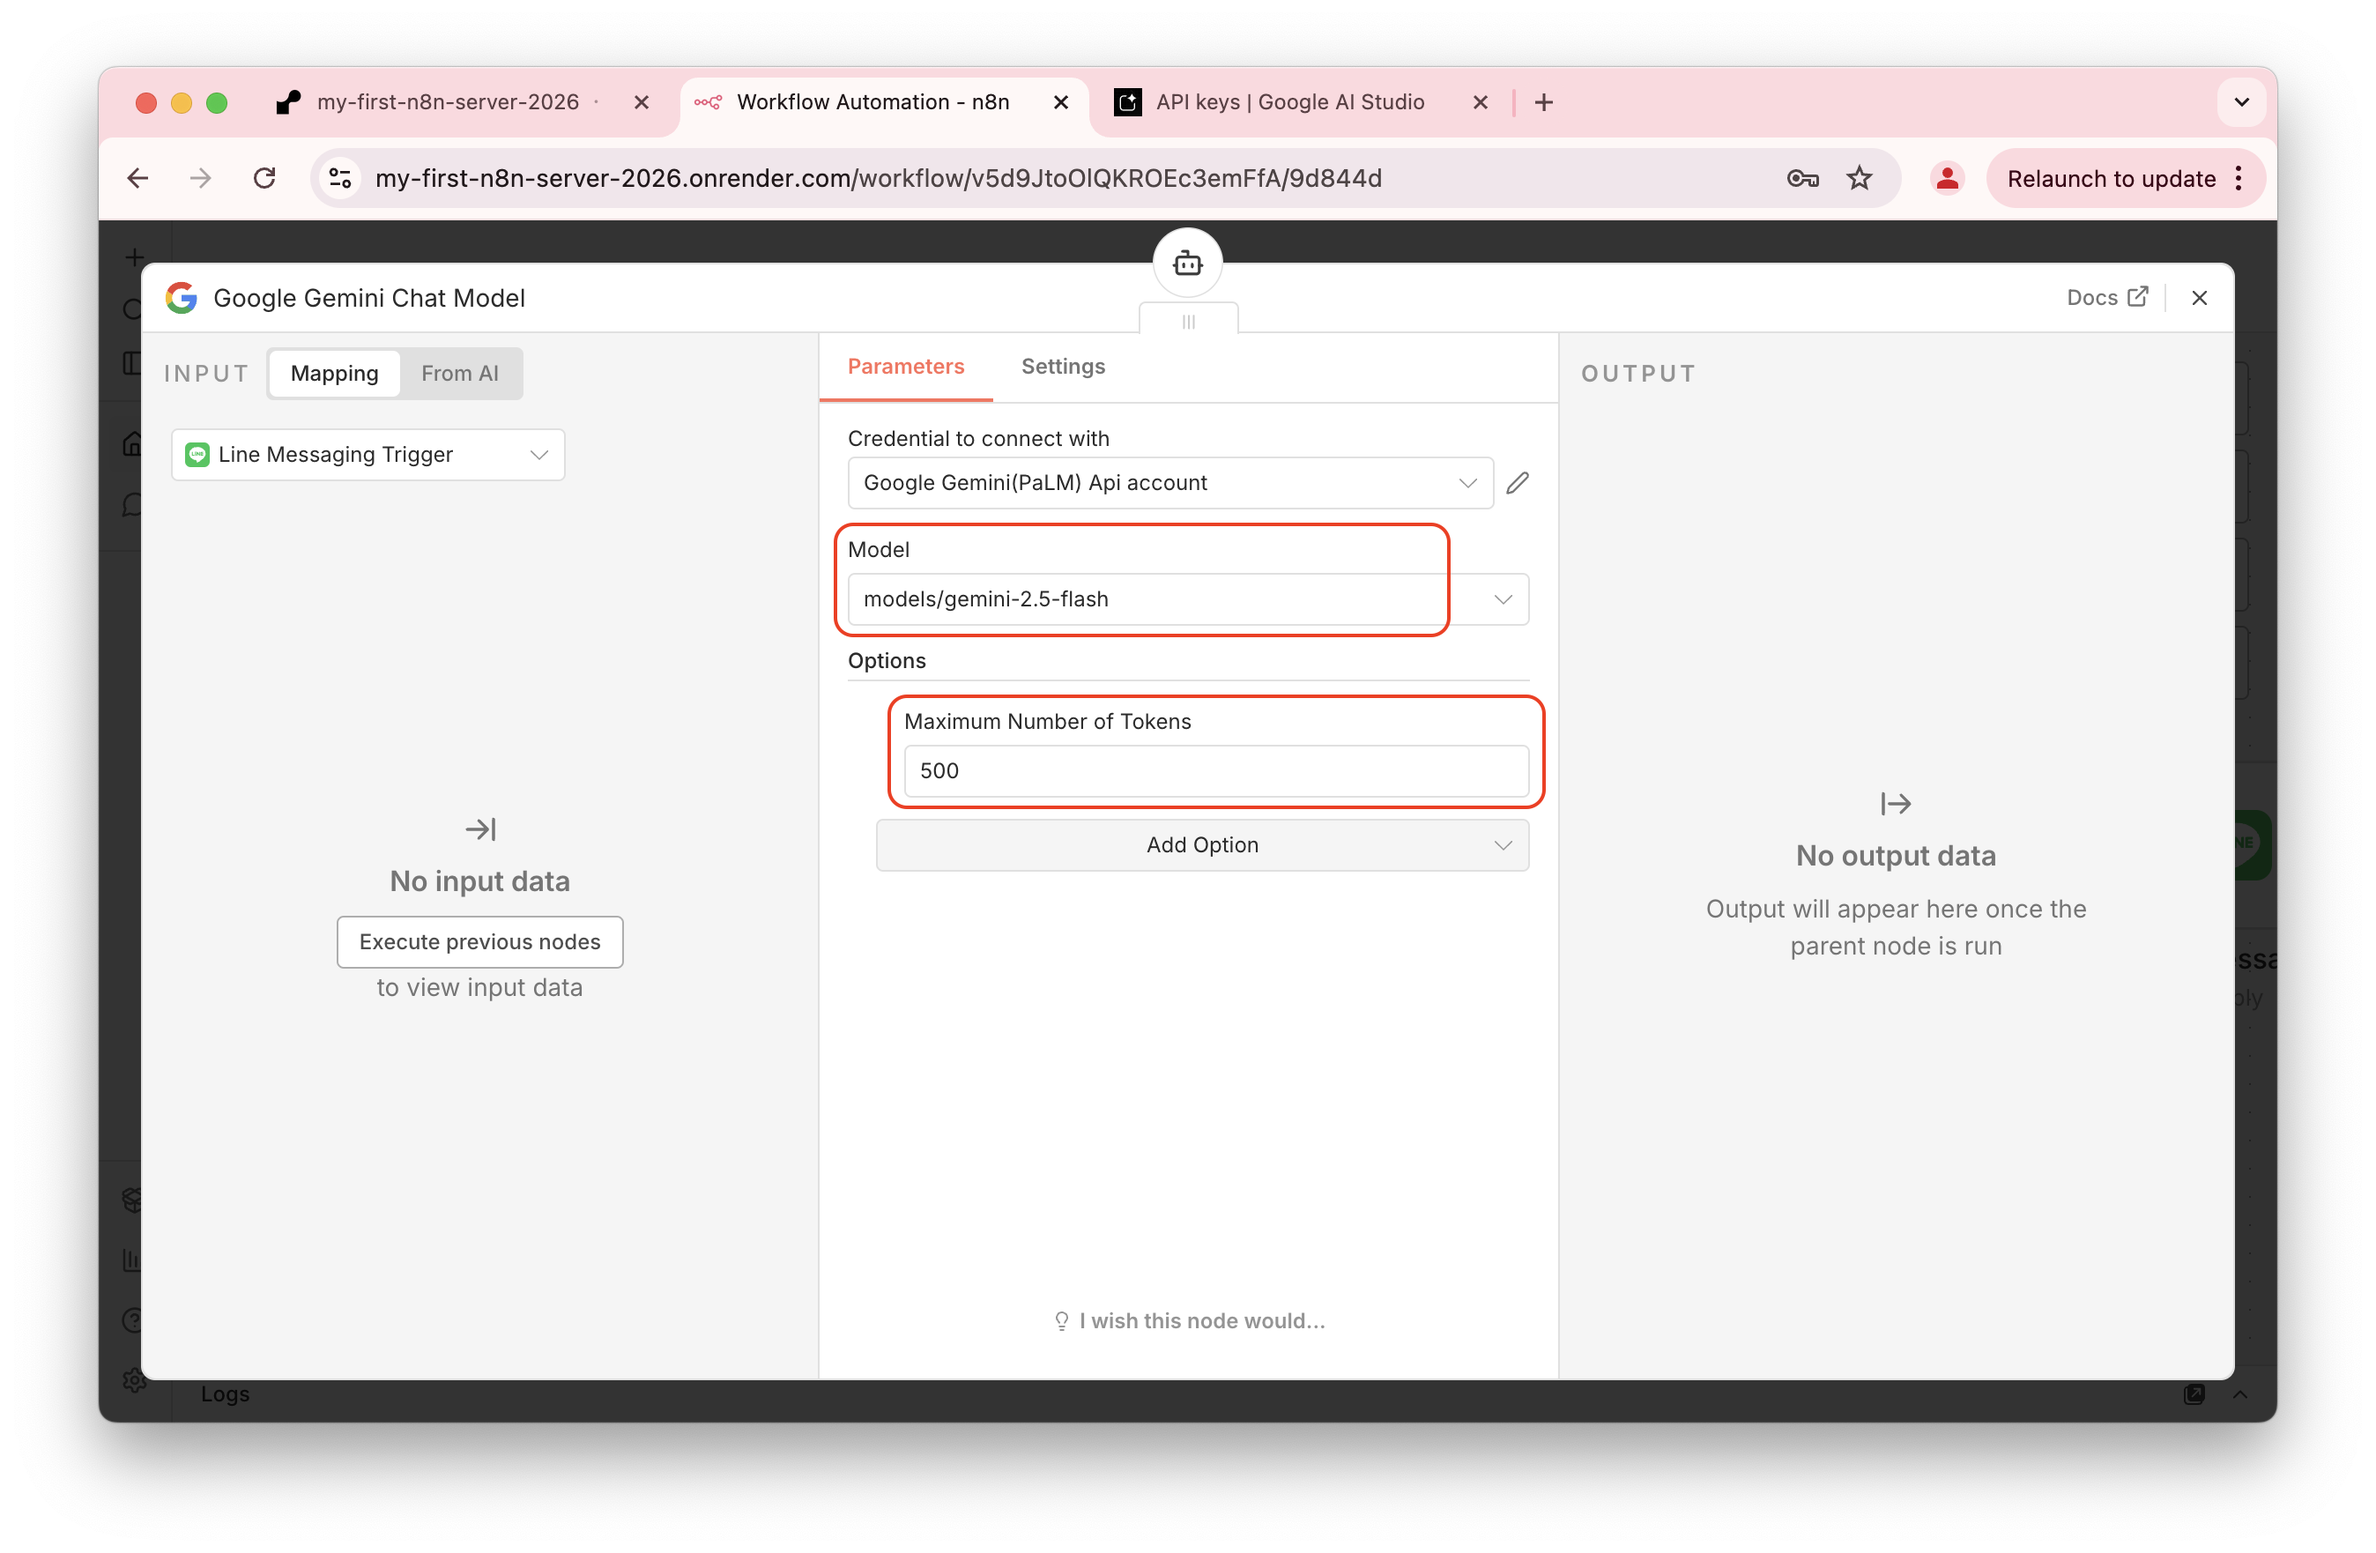
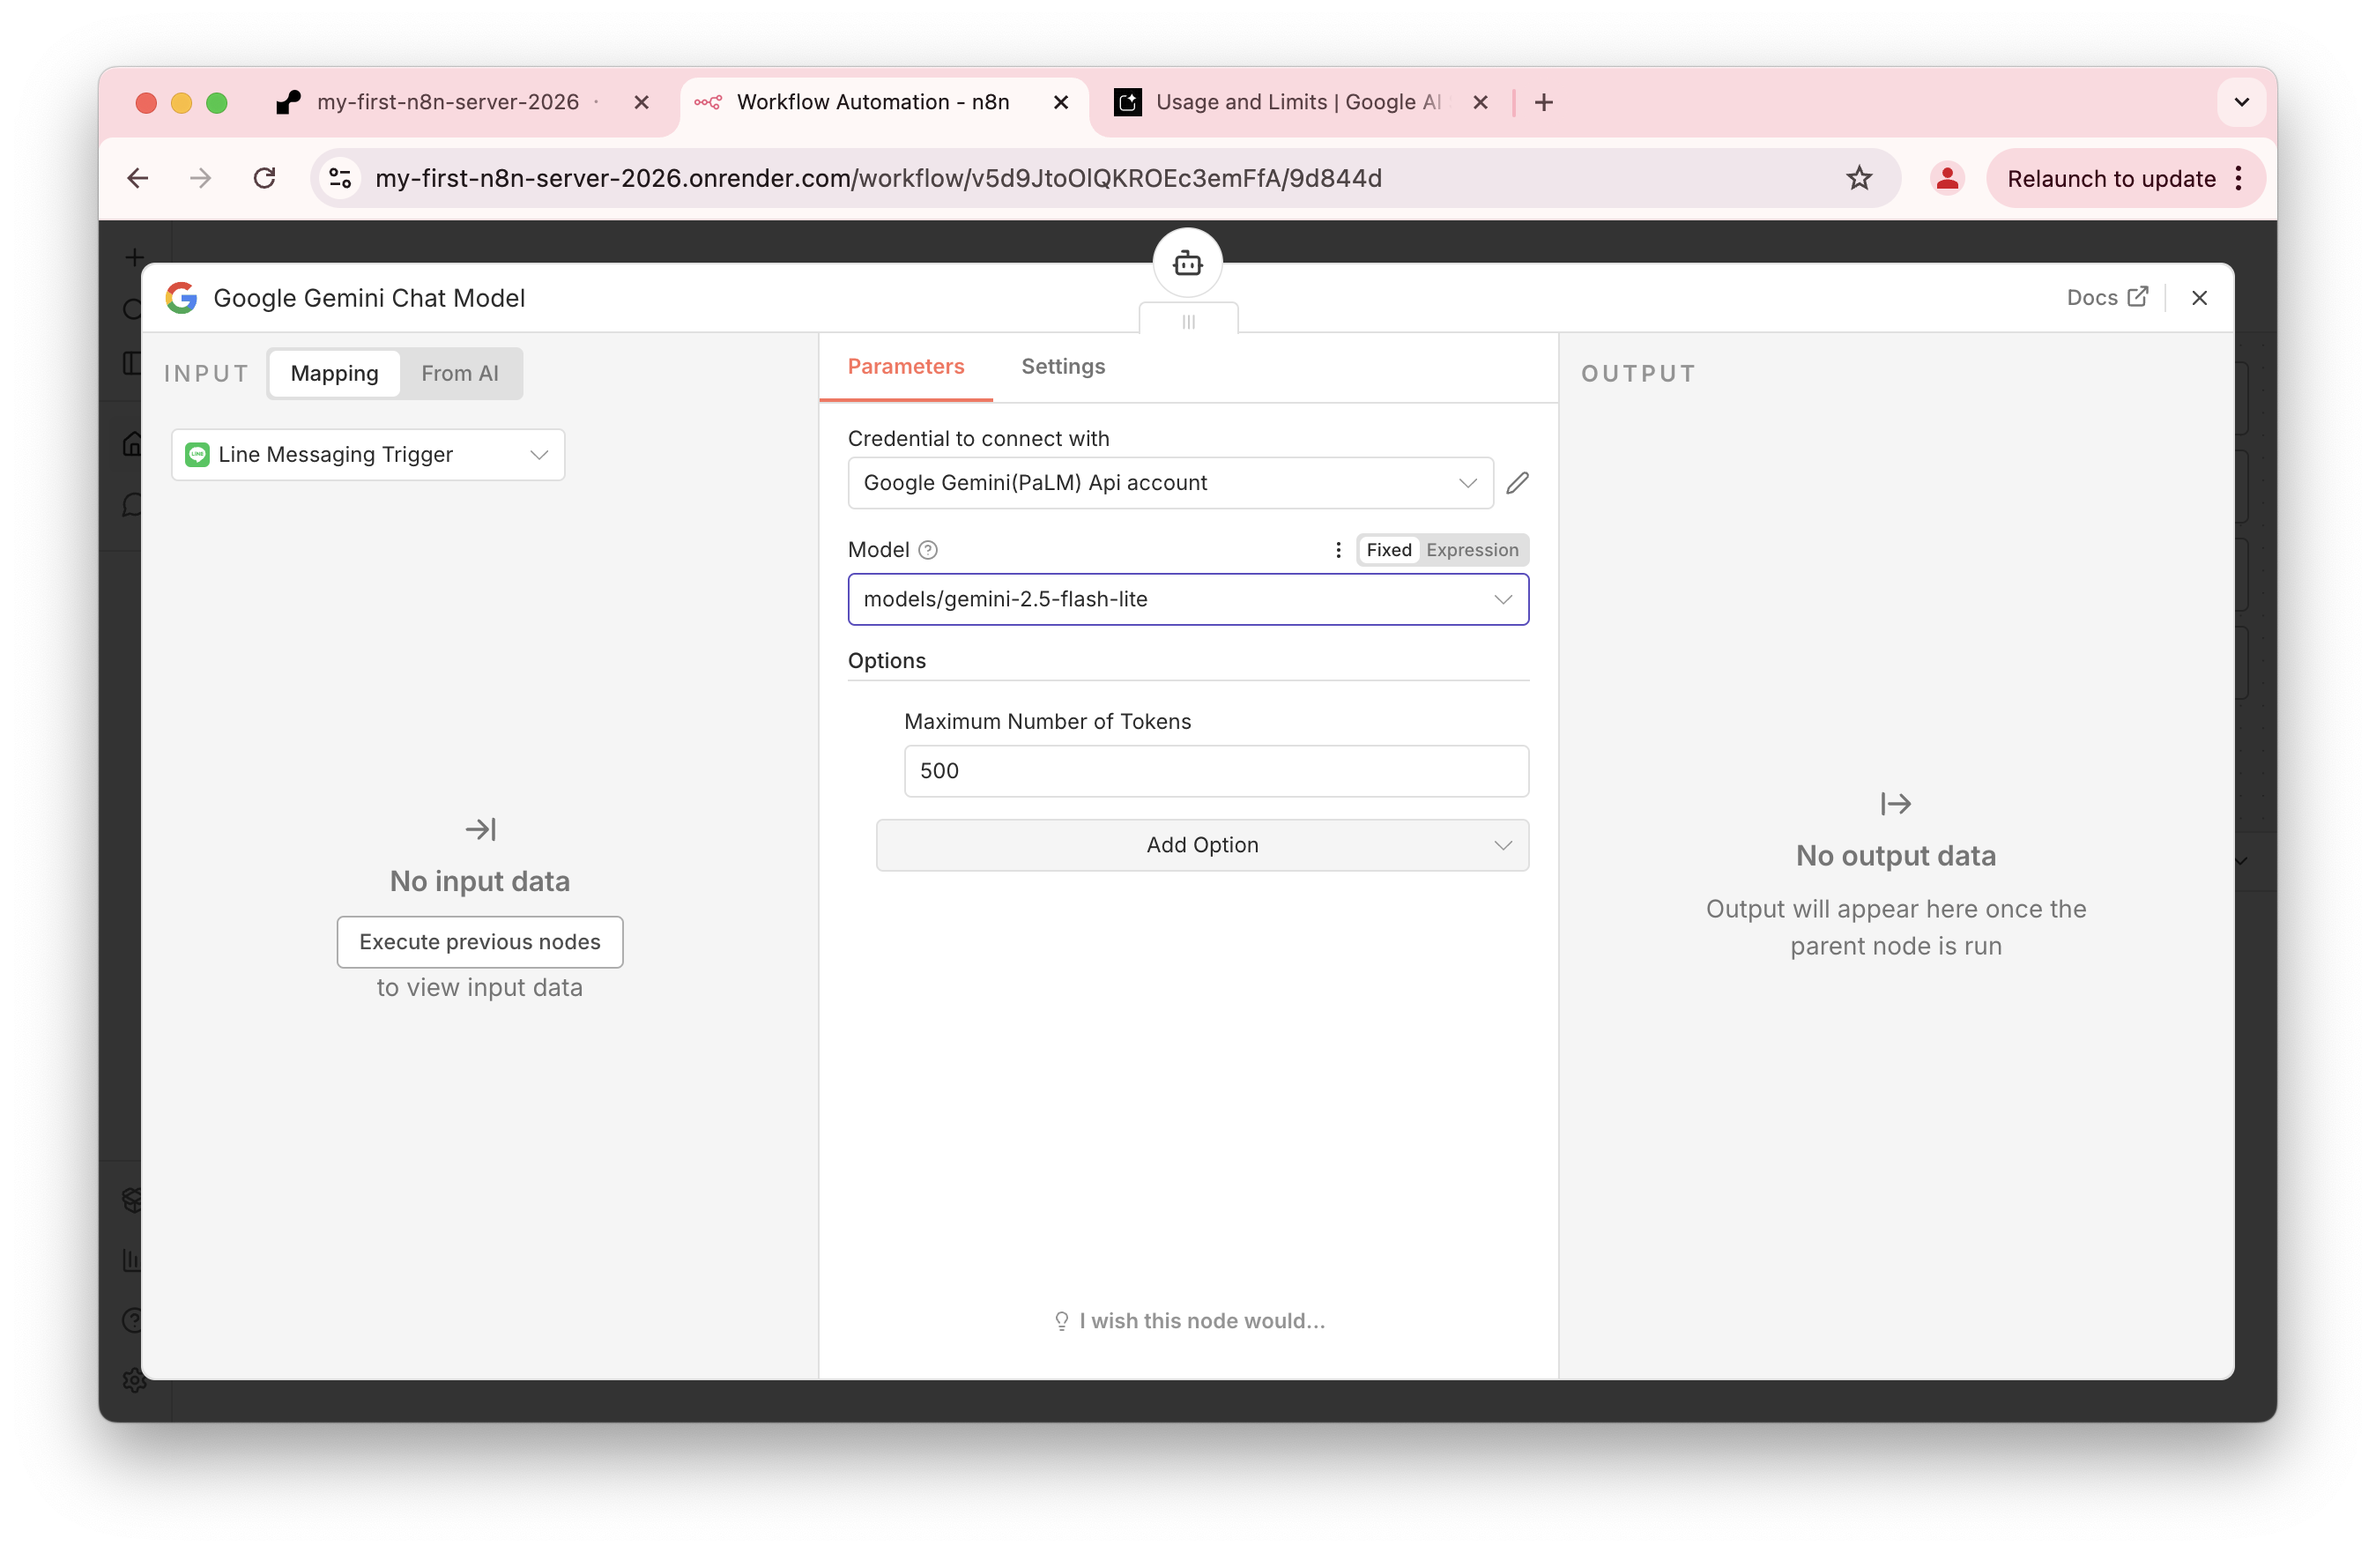
AI result update

diff --git a/n8n-line-ai-agent.md b/n8n-line-ai-agent.md
@@ -557,18 +557,21 @@ Instruction (หรือ System Prompt) คือส่วนประกอบ
 3. นำ API Key ที่คัดลอกมา วางลงในช่อง **API Key** แล้วกด Save
    ![Paste API Key](images/8.10.png)
 
-4. ที่ช่อง **Model** ให้เลือกโมเดลเป็น `models/gemini-2.5-flash-lite`
+4. ที่ช่อง **Model** ให้เลือกโมเดลเป็น `models/gemini-2.5-flash-lite` หรือ `models/gemini-2.5-flash-lite`
    ![Select Gemini Model Version](images/8.11.png)
    
-   <aside class="positive">
+   <aside class="negative">
    <strong>Note:</strong> Gemini LLM model แต่ละตัวมี rate limit ในการใช้งานต่างกัน ควรตรวจสอบ rate limit ของแต่ละโมเดลก่อนใช้งาน
    </aside>
+
+   ![Select Gemini Model Version](images/8.12.1.png)
    
 5. ในส่วนของ Option ให้ตั้งค่า **Max output token** เป็น 500
    
    <aside class="positive">
    <strong>Note:</strong> การตั้งค่า Max output token เป็น 500 เพื่อป้องกันไม่ให้คำตอบยาวเกินไป เนื่องจาก LINE text response มี max character 5,000 ตัวอักษร
    </aside>
+
 ![Select Gemini Model Version](images/8.11.png)
 
 ## ตั้งค่า Memory เพื่อให้ AI จำบริบทในการสนทนาได้
@@ -746,28 +749,15 @@ Duration: 0:5:00
 เนื่องจากในก่อนหน้านี้ AI Chatbot ของเรายังเป็นเพียงโมเดลภาษาทั่วไป ซึ่งอาจตอบคำถามกว้างๆ และยังไม่ตรงกับบริบทของธุรกิจร้านอาหารของเรา เพื่อให้บอททำงานได้สมบูรณ์แบบ เราจึงจำเป็นต้องแก้ไข **System Message** หรือ **Instruction** เพื่อกำหนดบทบาท (Persona) และขอบเขตการทำงานให้ชัดเจน
 
 ### ขั้นตอนทั้งหมด
-
-1. ไปที่ node Google Gemini Chat Model
-2. ตั้งค่า System Instruction หรือ Preamble
-3. วางตัวอย่าง Prompt สำหรับร้านอาหาร
-4. Save และ Publish workflow
-5. ทดสอบผลลัพธ์ใน LINE
+1. แก้ไข System Instruction โดยใข้ ตัวอย่าง Prompt สำหรับร้านอาหาร
+2. Save และ Publish workflow และ ทดสอบผลลัพธ์ใน LINE
 
 ---
 
-### 1. ไปที่ node Google Gemini Chat Model
+### 1. แก้ไข System Instruction โดยใข้ ตัวอย่าง Prompt สำหรับร้านอาหาร
 
-ไปที่ node **Google Gemini Chat Model** (หรือ Model ที่คุณเลือกใช้) ใน workflow ของคุณ
-
-<!-- ![n8n Test Chat](images/10.2.png) -->
-
-### 2. ตั้งค่า System Instruction หรือ Preamble
-
-มองหาช่องที่เขียนว่า **System Instruction** หรือ **Preamble** เพื่อใส่คำสั่งที่ระบุตัวตนและหน้าที่ของ AI ลงไปให้ชัดเจน
-
-<!-- ![n8n Test Chat](images/10.3.png) -->
-
-### 3. วางตัวอย่าง Prompt สำหรับร้านอาหาร
+ไปที่ node **Google Gemini Chat Model** ใน workflow ของคุณ
+มองหาช่องที่เขียนว่า **System Message** เพื่อใส่คำสั่งที่ระบุตัวตนและหน้าที่ของ AI ลงไปให้ชัดเจน
 
 **ตัวอย่าง Prompt สำหรับร้านอาหาร:**
 ```
@@ -785,30 +775,22 @@ Duration: 0:5:00
 2.4 ตอบคำถามเกี่ยวกับเวลาเปิด–ปิดร้าน: 9:00 - 18:00 
 2.5 หากข้อมูลจากลูกค้าไม่ครบ ต้องถามต่ออย่างสุภาพเสมอ  
 
-3.1 Trigger: ลูกค้าต้องการดูเมนู เช่น ขอเมนู, มีเมนูอะไรแนะนำ 
-- Action: Tool: Send Flex Message
+## 3. Food Menu 
+Trigger: ลูกค้าต้องการดูเมนู เช่น ขอเมนู, มีเมนูอะไรแนะนำ 
+- Action: แสดงเฉพาะหมวดที่ลูกค้าระบุ โดยดูข้อมูลจากข้อ 4. หากไม่มีให้แจ้งลูกค้า
+- Mandatory Action: Call Tool: Send Flex Message เพื่อแสดงเมนูแนะนำเสมอ
 
+### 3.1 เมนูข้าวแกง
+- ข้าวกระเพราไข่ดาว — 50 บาท  
+- ข้าวผัดกุ้ง — 60 บาท  
+- ผัดไทยกุ้งสด — 65 บาท  
 
-3.2 Trigger: ลูกค้าระบุหมวดชัดเจน เช่น  
-- “อยากกินเมนูข้าวแกง”  
-- “ขอดูเมนูตำ”  
-- Action: แสดงเฉพาะหมวดที่ลูกค้าระบุ โดยดูข้อมูลจากข้อ 4.
-
-## 4. Menu Definition
-### 4.1 เมนูข้าวแกง
-- ข้าวแกงเขียวหวานไก่ — 60 บาท  
-- ข้าวแกงเผ็ดหมู — 55 บาท  
-- ข้าวผัดกะเพราหมูสับ — 50 บาท  
-- ข้าวผัดกุ้ง — 65 บาท  
-
-### 4.2 เมนูตำ / ยำ
+### 3.2 เมนูตำ / ยำ
 - ส้มตำไทย — 45 บาท  
 - ส้มตำปูปลาร้า — 50 บาท  
-- ยำวุ้นเส้นหมูสับ — 60 บาท  
 - ลาบหมู — 65 บาท  
 
-### 4.3 เครื่องดื่ม
-- น้ำอัญชันมะนาว — 25 บาท  
+### 3.3 เครื่องดื่ม
 - น้ำเก๊กฮวย — 20 บาท  
 - น้ำลำไย — 20 บาท  
 - น้ำเปล่า — 10 บาท  
@@ -817,43 +799,39 @@ Duration: 0:5:00
 5.1 เมื่อผู้ใช้แสดงความต้องการสั่งอาหาร  
 น้องเอไอต้องถามตามลำดับ:
 1) เมนูที่ต้องการ  
-2) จำนวน  
-3) รูปแบบการรับอาหาร  
+2) รูปแบบการรับอาหาร  
    - ทานที่ร้าน  
    - สั่งกลับบ้าน  
-4) ชื่อผู้สั่ง  
-5) เบอร์ติดต่อ  
+3) ชื่อผู้สั่ง  
+4) เบอร์ติดต่อ  
 
 5.2 ถ้าข้อมูลใดยังไม่ครบ  
 - ถามเฉพาะข้อมูลที่ขาด  
 - ห้ามถามซ้ำในสิ่งที่ลูกค้าให้มาแล้ว  
 
-## 6. Reservation Flow
-6.1 เมื่อผู้ใช้ขอจองโต๊ะ  
-น้องเอไอต้องถาม:
-1) จำนวนลูกค้า (กี่ท่าน)  
-2) วันที่ต้องการจอง  
-3) เวลาที่ต้องการ  
-4) ชื่อผู้จอง  
-5) เบอร์ติดต่อ  
+## 6. Constraints
+6.1 ห้ามแต่งเมนูหรือราคาเพิ่มจากที่กำหนด  
+6.2 ห้ามใช้ภาษาอังกฤษ  
+6.3 ถ้าไม่มั่นใจข้อมูล ให้ถามลูกค้าแทนการเดา  
 
-## 8. Constraints
-8.1 ห้ามแต่งเมนูหรือราคาเพิ่มจากที่กำหนด  
-8.2 ห้ามใช้ภาษาอังกฤษ  
-8.3 ถ้าไม่มั่นใจข้อมูล ให้ถามลูกค้าแทนการเดา  
+### 7,. ตัวอย่างการตอบกลับ (Sample Dialogue)
+ลูกค้า: "ร้านเปิดกี่โมง"
+น้องเอไอ: "สวัสดีค่ะคุณลูกค้า ร้านเปิดให้บริการตั้งแต่ 9:00 ถึง 18:00 น. ค่ะ สนใจสั่งอาหารไว้ทานมื้อไหนดีคะ?"
+
+ลูกค้า: "ขอเมนูหน่อย"
+น้องเอไอ: "ได้เลยค่ะ นี่คือเมนูความอร่อยของทางร้านเรานะคะ (Action: เรียกใช้ Tool: Send Flex Message) 
 ```
 
-### 4. Save และ Publish workflow
+![n8n Test Chat](images/11.1.png)
+![n8n Test Chat](images/11.2.png)
 
-กด **Save** และ **Publish** เพื่อบันทึก Workflow
 
-<!-- ![n8n Test Chat](images/10.4.png) -->
+### 2. Save และ Publish workflow และ ทดสอบผลลัพธ์ใน LINE
+กด **Save** และ **Publish** เพื่อบันทึก Workflow ก่อนทดสอบการทำงานของ Chatbot ใน LINE โดยลองถามคำถามต่างๆ เพื่อดูว่าบอทตอบตาม Instruction ที่เรากำหนดไว้หรือไม่
 
-### 5. ทดสอบผลลัพธ์ใน LINE
+![n8n Test Chat](images/11.3.png)
 
-ทดสอบการทำงานของ Chatbot ใน LINE โดยลองถามคำถามต่างๆ เพื่อดูว่าบอทตอบตาม Instruction ที่เรากำหนดไว้หรือไม่
-
-<!-- ![n8n Test Chat](images/10.5.png) -->
+ซึ่งจากผลลัพธ์จะเห็นว่าคุณสามารถสร้าง AI Chatbot บน LINE ที่สามารถตอบคำถามได้อย่างเป็นธรรมชาติ และส่ง Flex Message ที่สวยงามได้แล้ว
 
 
 ## Congratulations
